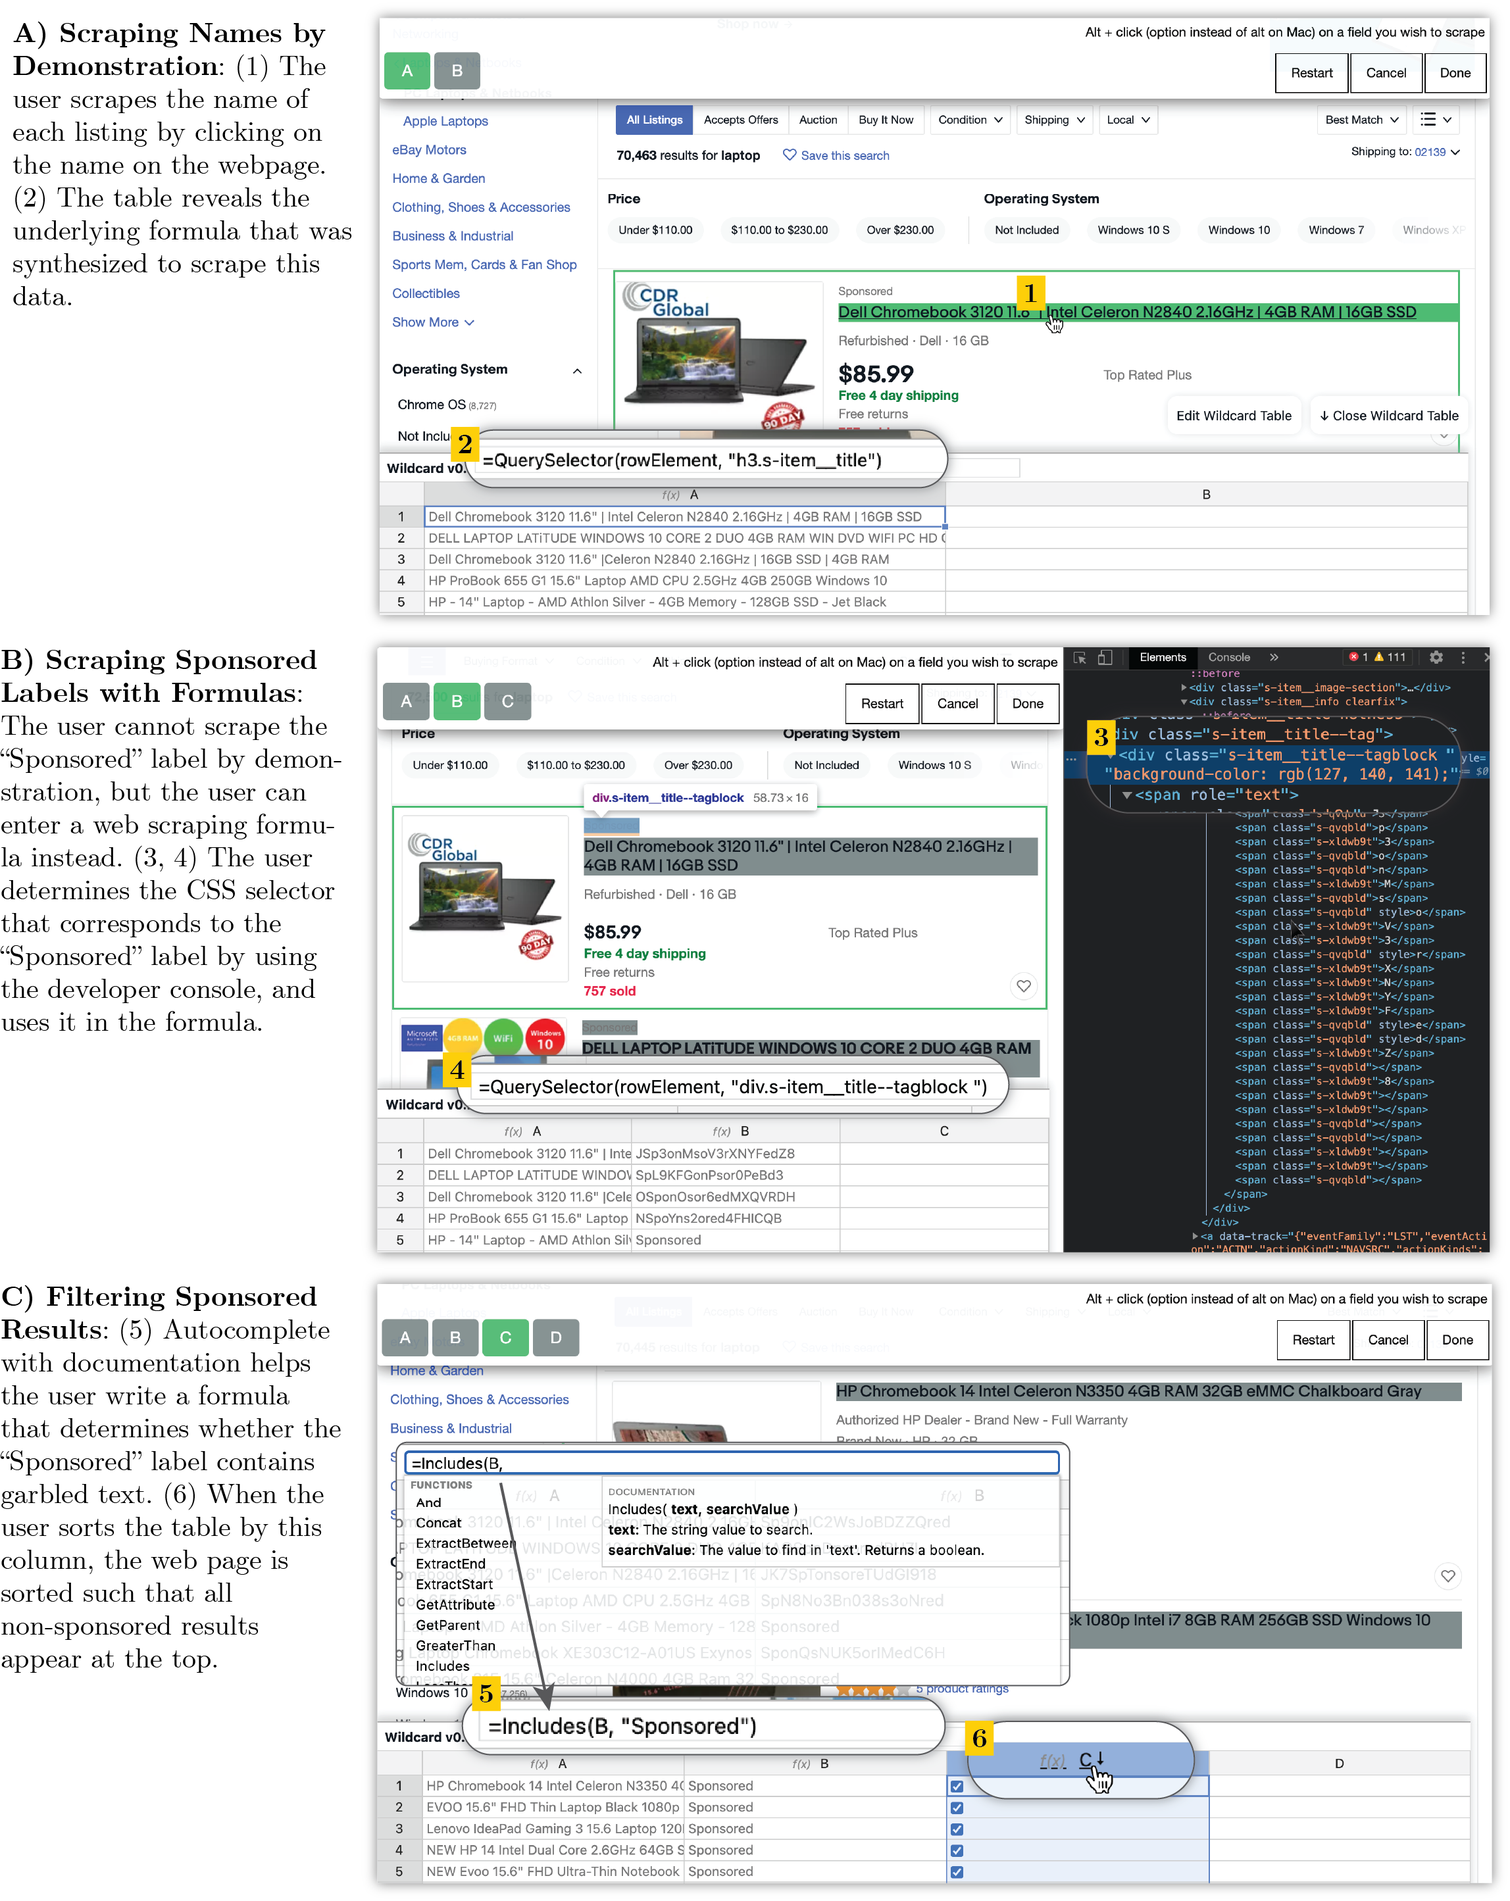
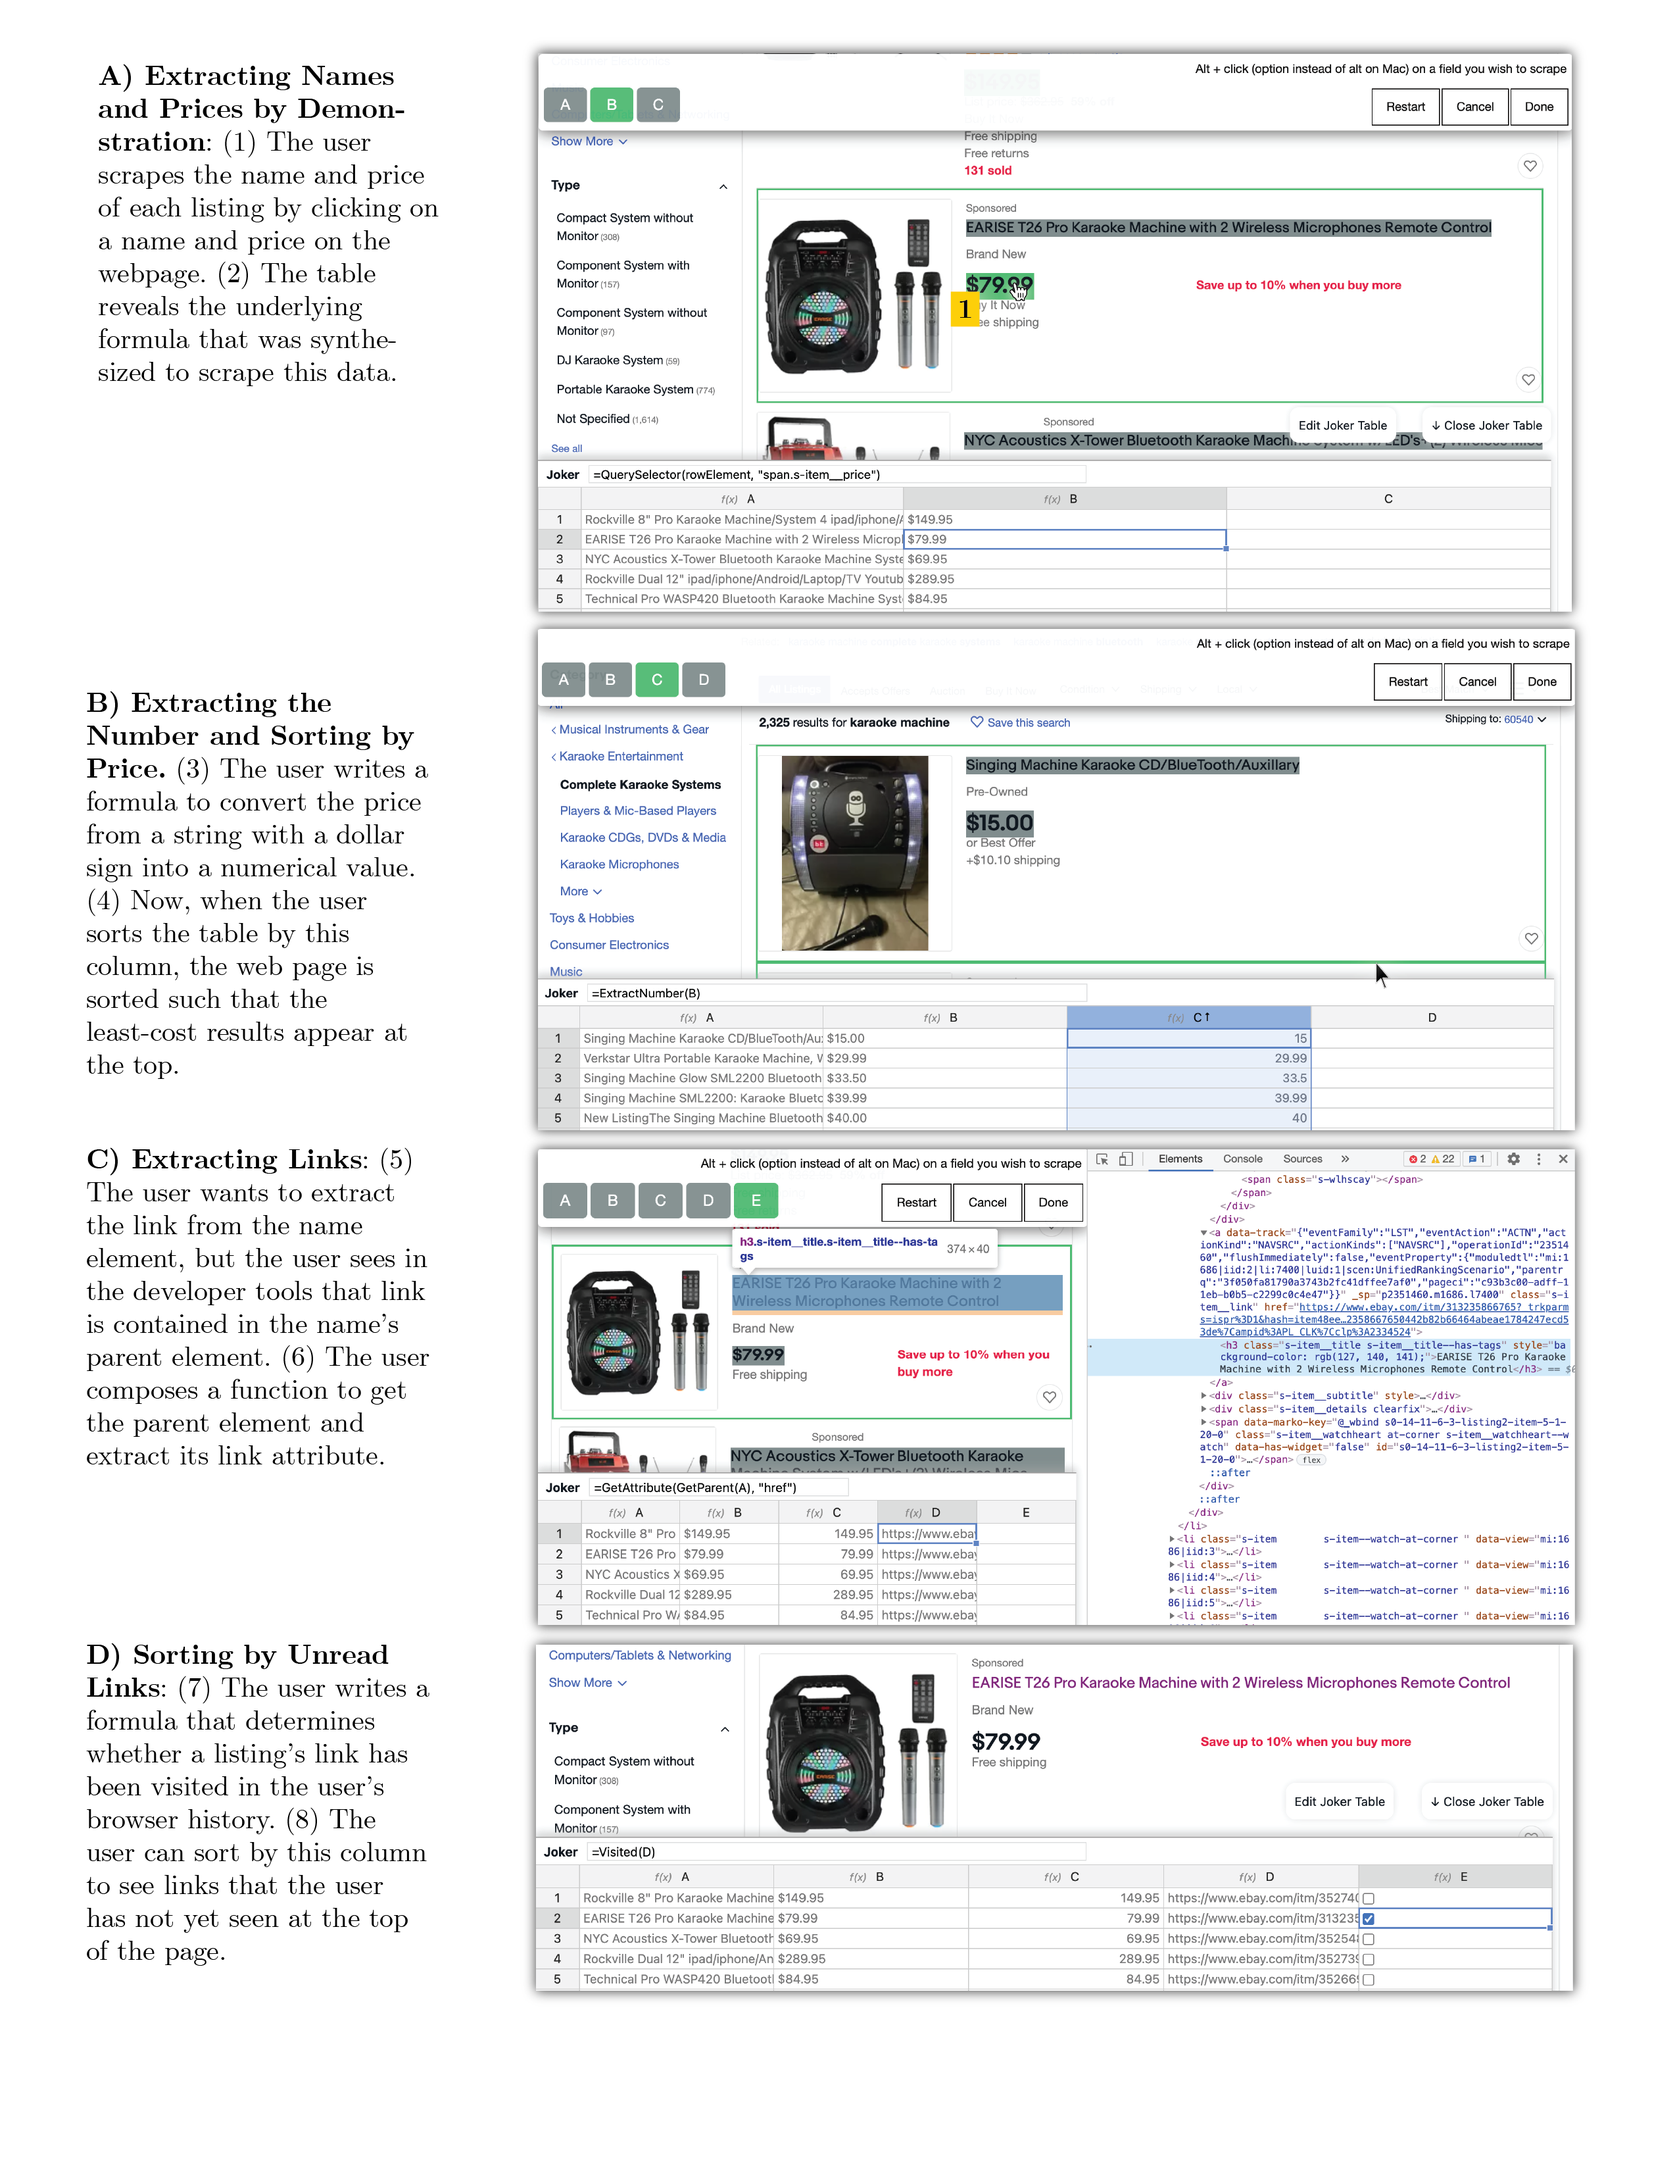
Updated example scenario with new workflow

diff --git a/paper.md b/paper.md
@@ -44,7 +44,10 @@ We have performed three evaluations of our approach, presented in [@sec:evaluati
 Joker relates to existing work not only in end-user web customization, but also in end-user web scraping and program synthesis which we discuss in [@sec:related-worker]. Finally, we discuss opportunities for future work in [@sec:conclusion].
 
 # Example Usage Scenario {#sec:examples}
-To illustrate the user experience of Joker, we present a scenario of customizing eBay, a popular online marketplace. The goal of the user, Jen, is to filter out search results that are sponsored, i.e. product listings that a seller paid to promote. On the website, sponsored listings are marked with a "Sponsored" label that Jen can extract, then she can sort the extracted labels to move all sponsored listings to the bottom of the page. @fig:ebay shows accompanying screenshots.
+
+To illustrate the user experience of Joker, we present a scenario of customizing eBay, a popular online marksetplace. We have also illustrated this scenario in the video accompanying this paper which we highly recommend you should watch.
+
+The goal of the user, Jen, is to sort the results of her search for karaoke machines by price. eBay provides a sorting feature but changing the sorting criteria reloads the search results instead of sorting the currently loaded results which is not what Jen wants to do. Joker can enable her to achieve her desired sorting behaviour right in the context of the website within a few minutes.
 
 <div class="pdf-only">
 \begin{figure*}
@@ -53,28 +56,23 @@ To illustrate the user experience of Joker, we present a scenario of customizing
 \end{figure*}
 </div>
 
-*Scraping Names by Demonstration* (@fig:ebay Part A): Jen starts the data extraction process by clicking a context menu item within the eBay.com page. Then, she hovers over the name of the product listing to indicate that she would like to extract it into the table. As she hovers, Joker provides two kinds of live feedback. First, it highlights the names of all the listings on the page, to indicate how it has generalized Jen's intent based on her demonstration with a single example listing. Second, the table is also filled with data, giving a preview of how the extracted data would look. Once she is happy with the preview of the extraction, Jen clicks to confirm her intent, and the table becomes filled with one row per listing.
+*Extracting Product Names & Prices By Demonstration*. (@fig:ebay Part A): Jen initiates Joker through the browser context menu. As she hovers over the product names, Joker provides two kinds of live feedback. First, it highlights the names of all the listings on the page with a green background, to indicate how it has generalized Jen's intent based on her demonstration of a single example product. Second, a column of the table is populated with the values that will be extracted, giving a preview of how the extracted data would look. To commit the extraction, Jen clicks on the product name and then does the same for the product price.
 
-When she clicks on a cell in the table, the _formula bar_ at the top of the table displays the underlying formula that is extracting the data, just as in a spreadsheet interface:
+Upon clicking one of the cell's in column `B`, Jen sees Joker's _formula_ bar at the top of the table display the extraction formula that was generated from her demonstration:
 
-`QuerySelector(rowElement, "h3.s-item__title")`
+`QuerySelector(rowElement, "span.s-item__price")`
 
-This formula describes the scraping logic generated by the demonstration. For each listing, the system has extracted a DOM element representing the listing, represented by the special system variable `rowElement`. The `QuerySelector` function runs a CSS query selector within the DOM element corresponding to each listing and returns the first child element that matches the selector.
+For each row in the table, Joker has a created a reference to the corresponding DOM element on the website that contains the product information. This row element is a special system variable known as `rowElement`. `QuerySelector` is an extraction formula that runs the specified CSS selector (`span.s-item__price`) on the `rowElement` to extract the text value of the element the selector matches. The CSS selector was generated based on her demonstration, and along with the rest of the formula, can be edited to correct any mistakes if needed.
 
-In this case, the demonstration successfully extracted all the desired data, so there's no need for Jen to edit the formula. Next, she will try performing some extractions which require her to more directly edit formulas.
+*Sorting Products By Price*. (@fig:ebay Part B): Now that she has the product prices in the table, Jen proceeds to augment them in order to be suitable for sorting. In their current form, they contain the dollar sign ($) which is not a number. In the next column, Jen types `=` and the formula bar creates a dropdwn containing all of Joker's formulas. She sees the `ExtractNumber` formula and reads its documentation to confirm that she can use it to extract the numbers in the product price values. To run the formula on the product price values, she references the column they are in (`B`). Jen can now sort the column with the augmented prices which not only sorts Joker's table but also sorts the products on the website.
 
-*Scraping Sponsored Labels with Formulas* (@fig:ebay Part B): Jen would like to sort the table based on whether the listing contains the "Sponsored" label, so she decides to extract the text contents of the “Sponsored” label element into a new column. She tries to extract the label using demonstration, but she finds she is unable to extract more than one letter of the word at a time.
+*Extracting Product URL With Formulas* (@fig:ebay Part C): While navigating the autocomplete dropdown of Joker's formula bar, Jen noticed the `Visted` formula which takes a URL as an input and indicates if the URL has been visited. She realizes that it would also be useful to sort the products by whether she has clicked on them. This will allow her to focus on the products she hasn't seen yet which is not a feature provided by eBay. Because of Joker's unified interaction model, Jen can go right back into extracting the values she needs! 
 
-To diagnose the issue, Jen inspects the website’s source code using her browser's developer tools. Jen discovers that eBay's developers have inserted invisible letters into the word “Sponsored” (possibly to obfuscate against ad blockers). Each letter is in its own element, and the inserted letters are rendered invisible by CSS. Extracting by demonstration does not work in this case because Jen wants the element that contains the whole word, but the system is giving her the leaf-node elements (individual letters) instead.
+Her mouse pointer indicates that the product name links to the product's website but she doesn't see a way to extract the URLs by demonstration because they are not visiable. Having done some basic web development, Jen uses the browser context menu to inspect the product name which opens the browser development tools. There, she sees that the product name is in an `H3` element nested in an `A` element that has an `href` attribute with the URL. Using a composition of the `GetAttribute` and `GetParent` formulas, Jen is able to traverse the DOM up from the produce name element to the link element and then extract the URL value of the product into a column via `=GetAttribute(GetParent(A), "href")`. 
 
-Jen sees in the source code that the all of the letters of the "Sponsored" label, both visible and invisible, are contained in a single ancestor element with the CSS selector `"div.s-item__title--tagblock"`. Thus, she is able to scrape the full word by writing a query selector formula with that CSS selector. She can copy the formula from the previous column as a template.
+*Sorting Products By Whether They Have Been Visited* (@fig:ebay Part C): Now that Jen has the URLs of each product in the table, she can use the `Visited` formula to indicate (through checkboxes) whether she has visited the corresponding product page. Using Joker, Jen was able to not only achieve her initial customization goal to sort the products by price but also perform a customization she did not planned to do. This was made possible by Joker's unified interaction model for web customization which enbled her to interleave extraction and augmention. 
 
-This formula populates the column with the text content of the "Sponsored" element, which she can now use for string manipulation and sorting. By writing a formula, Jen is able to overcome the limitations of extracting by demonstration. The mixed methods of extraction exemplify our tool's support of **prodirect manipulation**.
-
-*Filtering Sponsored Results* (@fig:ebay Part C): The query selector that Jen just wrote returns all of the text within each of the targeted "Sponsored" elements, including any invisible letters. eBay's web design is that sponsored listings have a visible "Sponsored" label with invisible inserted letters, and non-sponsored listings have an invisible "Sponsored" label. Thus, for sponsored listings, the query returns garbled text (e.g. "JSp3onMsoV3rXNYFedZB"), and for non-sponsored listings, the query returns "Sponsored". Jen identifies this correlation by scrolling through the scraped data in the column and comparing them to what she sees on the web page. Then, in a new column, Jen writes a formula that returns whether or not the previous column’s text includes the word “Sponsored.” Finally, she sorts this column of booleans, which, by bidirectional synchronization, also sorts the listings on the website. As a result of this sort, non-sponsored results are all listed before any sponsored results, which achieves Jen's goal of browsing without seeing sponsored results. This customization is possible because Joker provides **unified user interaction**, where extraction and augmentation are performed in conjunction.
-
-In this way, Jen is able to use Joker to customize the eBay website, without needing to learn how to program in JavaScript and without even leaving the website. Joker's unified interaction model for web customization is flexible enough to support a wide range of other useful modifications and web programming proficiency levels, and we present a greater variety of use cases in [@sec:evaluation].
-
+The interaction model Joker provides for web customization supports this type of adhoc workflows that are common in the realword, especially with creative tasks such as customization. Joker is flexible enough to support a wide range of other useful customizations and programming proficiency levels, and we present a greater variety of use cases in [@sec:evaluation].
 
 # System Implementation {#sec:implementation}
 
